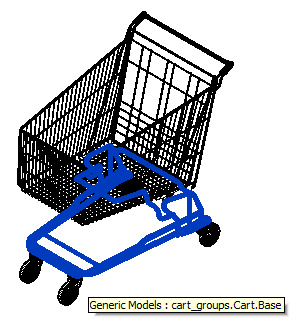
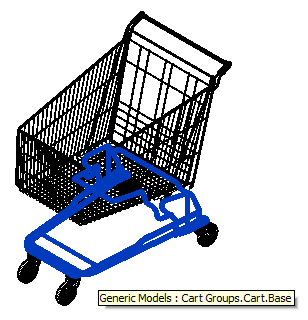
capitalise and replace underscore by space in DirectShape element name

Changed region(s): [[0.0301, 0.0312, 0.9632, 0.9688]]

diff --git a/DirectObjLoader/Util.cs b/DirectObjLoader/Util.cs
@@ -1,5 +1,6 @@
 #region Namespaces
 using System;
+using System.Linq;
 using System.Windows.Forms;
 using Autodesk.Revit.DB;
 #endregion // Namespaces
@@ -8,6 +9,22 @@ namespace DirectObjLoader
 {
   class Util
   {
+    // JavaScript sample implementations:
+    // capitalize:function(){return this.replace(/\b[a-z]/g,function(match){return match.toUpperCase();});}
+    // capitalize: function() { return this.charAt(0).toUpperCase() + this.substring(1).toLowerCase(); }
+
+    /// <summary>
+    /// Ensure that each space delimited word in the 
+    /// given string has an upper case first character.
+    /// </summary>
+    public static string Capitalize( string s )
+    {
+      return string.Join( " ", s.Split( null )
+        .Select<string, string>( a
+          => a.Substring( 0, 1 ).ToUpper() 
+            + a.Substring( 1 ) ) );
+    }
+
     public static string RealString( double a )
     {
       return a.ToString( "0.##" );

diff --git a/DirectObjLoader/Command.cs b/DirectObjLoader/Command.cs
@@ -169,8 +169,9 @@ namespace DirectObjLoader
       string appGuid 
         = uiapp.ActiveAddInId.GetGUID().ToString();
 
-      string shapeName 
-        = Path.GetFileNameWithoutExtension( _filename );
+      string shapeName = Util.Capitalize(
+        Path.GetFileNameWithoutExtension( _filename )
+          .Replace( '_', ' ' ) );
 
       // Find GraphicsStyle
 
